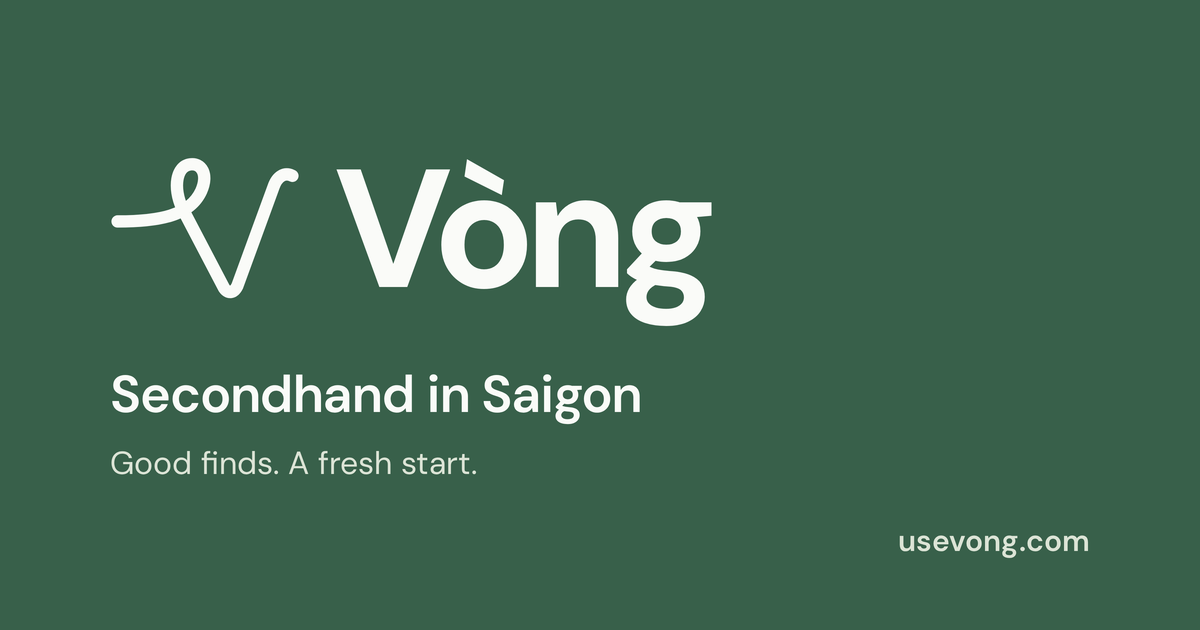
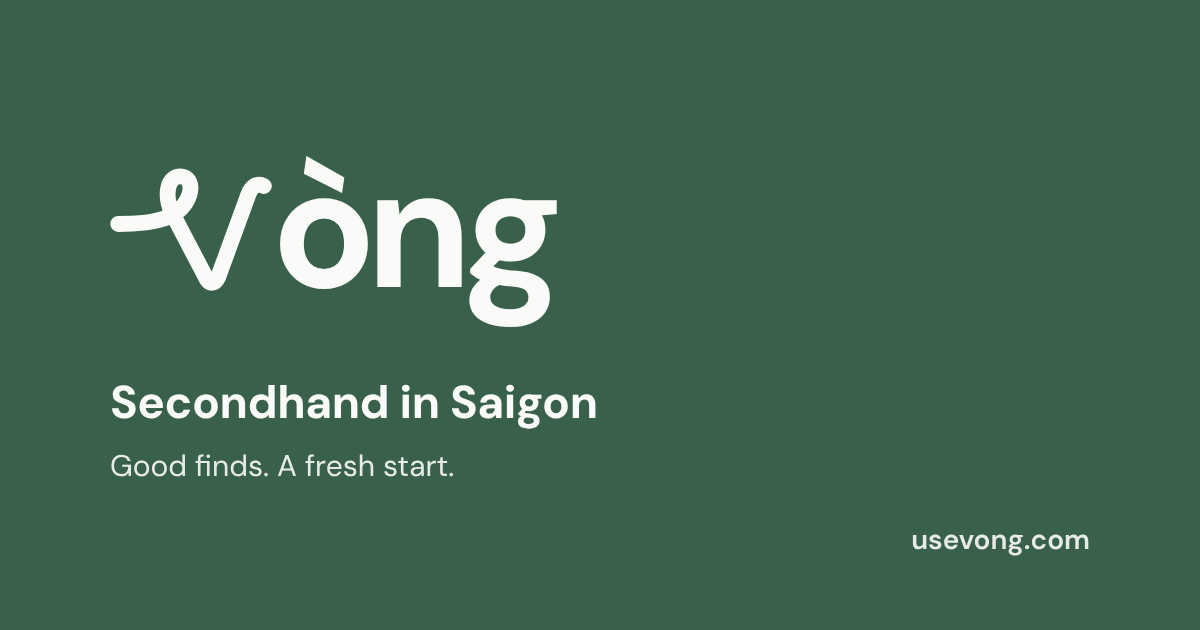
Make the looped mark the V of the Vòng wordmark
The header and footer now show one word: the looped mark drawn as the V,
followed by "òng". The mark is drawn heavier in the wordmark so it matches
DM Sans Bold, sits on the baseline and lines up with the cap height. The
standalone mark (app tile, VietQR label, favicon) is unchanged.

Also regenerates og-image.png with the new wordmark and drops the mobile
rules that hid the separate mark, since it is now part of the word.

Claude-Session: https://claude.ai/code/session_01JtXbfYqSnYt1uQqs8JSH3k

diff --git a/client/src/components/Logo.jsx b/client/src/components/Logo.jsx
@@ -8,6 +8,16 @@ const MARK_PATH =
   'M 8 76 C 52 76 84 70 96 44 C 104 26 96 14 84 16 C 70 18 66 40 76 62 L 120 146 ' +
   'C 124 152 130 152 134 144 L 172 40 C 176 28 184 24 192 28';
 
+/*
+ * In the wordmark the mark is the V of "Vòng". It is drawn heavier than the
+ * standalone mark so its stroke matches DM Sans Bold, and its viewBox is cropped
+ * to the stroke so the bottom of the V sits on the text baseline and the top of
+ * the loop lines up with the cap height.
+ */
+const WORD_STROKE = 20;
+const WORD_TOP = 14 - WORD_STROKE / 2;
+const WORD_HEIGHT = 150.5 + WORD_STROKE / 2 - WORD_TOP;
+
 export function LogoMark({ size = 32, className = '' }) {
   return (
     <svg
@@ -56,12 +66,26 @@ export function LogoTile({ size = 56, className = '' }) {
   );
 }
 
-/** Mark plus the wordmark, used in the header and the footer. */
-export function Logo({ size = 30 }) {
+/** The wordmark: the looped mark is the V, followed by "òng". Used in the header and the footer. */
+export function Logo({ className = '' }) {
   return (
-    <>
-      <LogoMark size={size} />
-      <span className="brand__word">Vòng</span>
-    </>
+    <span className={`brand__word ${className}`.trim()} role="img" aria-label="Vòng">
+      <svg
+        className="brand__v"
+        viewBox={`-10 ${WORD_TOP} 216 ${WORD_HEIGHT}`}
+        aria-hidden="true"
+        focusable="false"
+      >
+        <path
+          d={MARK_PATH}
+          fill="none"
+          stroke="currentColor"
+          strokeWidth={WORD_STROKE}
+          strokeLinecap="round"
+          strokeLinejoin="round"
+        />
+      </svg>
+      <span aria-hidden="true">òng</span>
+    </span>
   );
 }

diff --git a/client/src/styles.css b/client/src/styles.css
@@ -905,6 +905,9 @@ h2 { font-size: clamp(1.4rem, 2.4vw, 1.85rem); }
 .header { background: var(--page); backdrop-filter: none; }
 .header__inner { height: 76px; }
 .brand__word { font-family: var(--sans); font-size: 1.65rem; letter-spacing: -.06em; }
+.brand__word { white-space: nowrap; }
+/* The looped mark drawn as the V of the wordmark: cap height, sitting on the baseline. */
+.brand__v { display: inline-block; height: .72em; width: auto; aspect-ratio: 216 / 156.5; vertical-align: -.02em; margin-right: -.02em; overflow: visible; }
 .icon-btn { border: 0; background: transparent; padding-inline: 8px; }
 .header__sell, .header__signin { white-space: nowrap; }
 .account-chip { display: flex; align-items: center; gap: 8px; min-height: 40px; border: 0; border-radius: 8px; background: var(--surface-sunk); cursor: pointer; }
@@ -987,8 +990,6 @@ h2 { font-size: clamp(1.4rem, 2.4vw, 1.85rem); }
   .account-chip { width: 34px; min-width: 34px; padding: 3px; justify-content: center; }
   .account-chip span { display: none; }
   .header__tools .icon-btn { min-width: 34px; padding-inline: 6px; }
-  .brand { gap: 5px; }
-  .brand > svg { width: 28px; }
   .brand__word { font-size: 1.4rem; }
   .marketplace { padding-top: 18px; }
   .market-hero { grid-template-columns: 1fr; min-height: auto; }
@@ -1020,7 +1021,6 @@ h2 { font-size: clamp(1.4rem, 2.4vw, 1.85rem); }
   .footer__grid > :first-child { grid-column: 1 / -1; }
 }
 @media (max-width: 380px) {
-  .brand > svg { display: none; }
   .header__inner { gap: 4px; }
   .market-hero__copy { padding: 22px; }
   .market-hero h1 { font-size: 2.2rem; }

diff --git a/client/src/components/Footer.jsx b/client/src/components/Footer.jsx
@@ -1,6 +1,6 @@
 import { Link } from 'react-router-dom';
 import { useI18n } from '../i18n/index.jsx';
-import { LogoMark } from './Logo.jsx';
+import { Logo } from './Logo.jsx';
 
 export function Footer() {
   const { t } = useI18n();
@@ -10,9 +10,8 @@ export function Footer() {
     <footer className="footer">
       <div className="shell footer__grid">
         <div>
-          <div className="row" style={{ gap: 10, marginBottom: 14 }}>
-            <LogoMark size={28} />
-            <span className="brand__word">{t('common.appName')}</span>
+          <div className="row" style={{ marginBottom: 14 }}>
+            <Logo />
           </div>
           <p className="small muted" style={{ maxWidth: '38ch' }}>{t('footer.blurb')}</p>
         </div>
